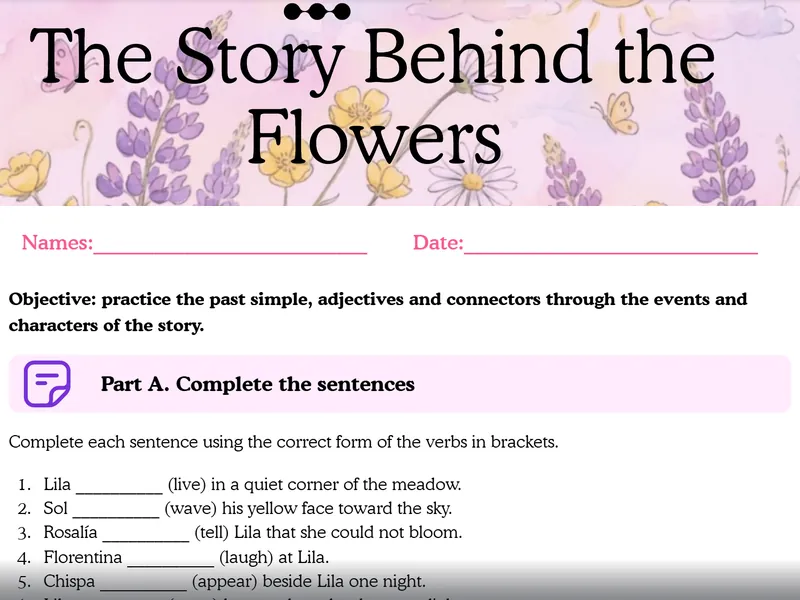
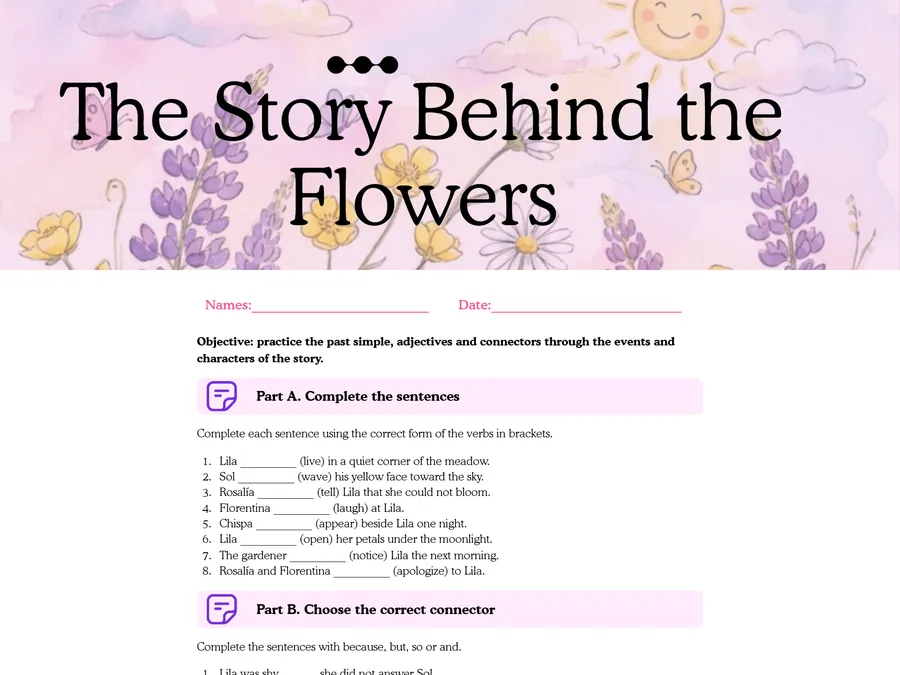
Team photos and bios; Find My Self activities in order; Lila without flashcards; activity images shown whole on their story's backdrop
Claude-Session: https://claude.ai/code/session_01QnjJNBmuxWVtSqwJhh165e

diff --git a/js/data.js b/js/data.js
@@ -2,8 +2,8 @@
    CONTENIDO DE LA PÁGINA — edita aquí los textos, enlaces e imágenes.
    (No hace falta tocar el resto del código.)
    - Las imágenes van en la carpeta img/ y se nombran con su ruta.
-   - "foco" y "zoom" eligen qué parte de la imagen se ve en cada tarjeta
-     de actividad: foco = "x% y%", zoom = "cover" o un tamaño como "220%".
+   - La "imagen" de cada actividad se ve COMPLETA (sin recortes) sobre el
+     fondo de su historia; una captura de la actividad queda muy bien.
    - "tema" son los colores del mundo de cada historia.
    ===================================================================== */
 window.SITE = {
@@ -28,11 +28,17 @@ window.SITE = {
   equipo: {
     titulo: "Meet the Teachers",
     personas: [
-      { nombre: "Teacher Name", rol: "Trainee teacher", foto: "", bio: [
-        "Write a short introduction here: who you are, what you study and why you love teaching.",
-        "Add a second paragraph about why stories matter for learning English."] },
-      { nombre: "Teacher Name", rol: "Trainee teacher", foto: "", bio: ["Write a short introduction here."] },
-      { nombre: "Teacher Name", rol: "Trainee teacher", foto: "", bio: ["Write a short introduction here."] }
+      { nombre: "Laura Monroy", rol: "Spanish and Foreign Languages student · Universidad Santo Tomás", foto: "img/team-laura-monroy.webp", bio: [
+        "My name is Laura Monroy, and I am a student of Spanish and Foreign Languages (English and French) at Universidad Santo Tomás. I am passionate about languages, education, and cultural exchange. I enjoy learning new languages, discovering different cultures, and exploring how communication can bring people together.",
+        "I am particularly interested in teaching, creativity, and designing meaningful educational experiences that help children develop their language skills in an engaging and dynamic way. Through my academic journey and personal experiences, I hope to become a dedicated language teacher who inspires students, encourages their learning, and makes a positive contribution to education and society."] },
+      { nombre: "Laura Camila Pita", rol: "Spanish and Foreign Languages student", foto: "img/team-laura-camila-pita.webp", bio: [
+        "Hello! My name is Laura Camila Pita, and I am a Spanish and Foreign Languages student. I have always been curious about languages and different cultures. I consider myself an open-minded and creative person who enjoys meeting people, discovering new places, and stepping outside my comfort zone. My experiences abroad have strengthened my interest in intercultural communication and taught me to appreciate different perspectives and build connections beyond language.",
+        "These experiences have strengthened my passion for teaching and my belief that learning a language should also open doors to understanding the world. I enjoy exploring creative ways to bring real-life experiences and cultural diversity into the classroom, especially when working with children. I believe that teachers can inspire students to become curious, confident, and open to new perspectives.",
+        "I see storytelling as a meaningful part of this process because stories allow children to explore different worlds, connect with characters, and understand realities beyond their own. They stimulate imagination, encourage empathy, and make language learning more engaging. For me, stories are not just a way to learn a language, but also a way to help children discover the world and their place in it."] },
+      { nombre: "Nicoll Piratova Soler", rol: "Languages student (English and French) · Universidad Santo Tomás", foto: "img/team-nicoll-piratova.webp", bio: [
+        "My name is Nicoll Piratova Soler. I am a Languages student at Universidad Santo Tomás, and I am studying English and French. I have always been curious about languages and different cultures. My interest in languages started because I realized that a language is not only words and grammar. It is a way to understand how other people think, feel, and see the world.",
+        "These experiences have strengthened my passion for teaching and my belief that learning a language should also open doors to understanding the world. I enjoy exploring creative ways to bring real-life experiences and cultural diversity into the classroom, especially when working with children. I believe that teachers can inspire students to become curious, confident, and open to new perspectives.",
+        "I see storytelling as a meaningful part of this process because stories allow children to explore different worlds; they stimulate imagination, encourage empathy, and make language learning more engaging."] }
     ]
   },
   objetivos: {
@@ -71,17 +77,14 @@ window.SITE = {
         { palabra: "Lonely", significado: "Sad because you are alone." }
       ],
       actividades: [
-        { id: "my-little-world-1", habilidad: "reading", titulo: "Match the routines", instrucciones: "Match each picture with the correct daily routine.",
-          link: "https://wordwall.net/es/resource/123880278?wwmethod=link", boton: "Open Wordwall",
-          imagen: "img/cover-find-my-self.webp", foco: "14% 22%", zoom: "260%" },
-        { id: "my-little-world-2", habilidad: "writing", titulo: "Song crossword", instrucciones: "Use the song and the clues to complete the crossword. Check your spelling!",
-          link: "https://canva.link/royje9celaritqi", boton: "Open Canva",
-          imagen: "img/cover-find-my-self.webp", foco: "88% 38%", zoom: "260%" },
-        { id: "my-little-world-3", habilidad: "grammar", titulo: "Grammar quiz", instrucciones: "Choose the correct option to complete each sentence.",
-          link: "", boton: "", imagen: "img/cover-find-my-self.webp", foco: "6% 88%", zoom: "300%" },
-        { id: "my-little-world-4", habilidad: "speaking", titulo: "My favorite song", instrucciones: "Create a slide about your favorite song, then record a short video talking about it.",
-          link: "https://canva.link/md2tc7sr1cxfhfg", boton: "Open Canva",
-          imagen: "img/cover-find-my-self.webp", foco: "48% 62%", zoom: "230%" }
+        { id: "fms-listening", habilidad: "listening", titulo: "Song word search", instrucciones: "Listen to the song Finding Myself, spot the verbs in the past simple and find them in the word search.",
+          link: "https://canva.link/md2tc7sr1cxfhfg", boton: "Open Canva", imagen: "img/act-fms-listening.webp" },
+        { id: "fms-writing", habilidad: "writing", titulo: "Complete the lyrics", instrucciones: "Read each line of the song and drag the missing word into the gap.",
+          link: "https://wordwall.net/es/resource/123880278?wwmethod=link", boton: "Open Wordwall", imagen: "img/act-fms-writing.webp" },
+        { id: "fms-reading", habilidad: "reading", titulo: "Reading and comprehension maze", instrucciones: "Read the clues about the song, make inferences and find your way out of the maze.",
+          link: "https://view.genially.com/6af9f1666050153a5ea3c900", boton: "Open Genially", imagen: "img/act-fms-reading.webp" },
+        { id: "fms-speaking", habilidad: "speaking", titulo: "Jump game", instrucciones: "Jump through the levels of the game and answer each question out loud in English.",
+          link: "https://canva.link/royje9celaritqi", boton: "Open Canva", imagen: "img/act-fms-speaking.webp" }
       ],
       galeria: []
     },
@@ -108,13 +111,13 @@ window.SITE = {
       ],
       actividades: [
         { id: "green-tunja-who", habilidad: "reading", titulo: "Who is who?", instrucciones: "Open the boxes one by one and say who each character from the episode is.",
-          link: "https://wordwall.net/resource/123491145/who-is-who", boton: "Open Wordwall", imagen: "img/act-petals-who.webp", foco: "50% 50%", zoom: "cover" },
+          link: "https://wordwall.net/resource/123491145/who-is-who", boton: "Open Wordwall", imagen: "img/act-petals-who.webp" },
         { id: "green-tunja-order", habilidad: "listening", titulo: "Put the story in order", instrucciones: "Listen to the episode again and choose what happened first, next and last.",
-          link: "https://wordwall.net/resource/123491582/put-the-story-in-order", boton: "Open Wordwall", imagen: "img/cover-behind-the-petals.webp", foco: "18% 52%", zoom: "260%" },
+          link: "https://wordwall.net/resource/123491582/put-the-story-in-order", boton: "Open Wordwall", imagen: "img/act-petals-order.webp" },
         { id: "green-tunja-true-false", habilidad: "listening", titulo: "True or false", instrucciones: "The sentences fly by fast! Decide if each one is true or false before time runs out.",
-          link: "https://wordwall.net/resource/123491787/true-or-false", boton: "Open Wordwall", imagen: "img/cover-behind-the-petals.webp", foco: "82% 50%", zoom: "260%" },
+          link: "https://wordwall.net/resource/123491787/true-or-false", boton: "Open Wordwall", imagen: "img/act-petals-truefalse.webp" },
         { id: "green-tunja-crossword", habilidad: "vocabulary", titulo: "Charlie Charlie crossword", instrucciones: "Read the clues and complete the crossword with words from the episode.",
-          link: "https://share.gridgenius.app/p/behind-the-petals-episode-charlie-charlie-medium-Vxoy2Y", boton: "Open crossword", imagen: "img/act-petals-crossword.webp", foco: "50% 50%", zoom: "cover" }
+          link: "https://share.gridgenius.app/p/behind-the-petals-episode-charlie-charlie-medium-Vxoy2Y", boton: "Open crossword", imagen: "img/act-petals-crossword.webp" }
       ],
       galeria: []
     },
@@ -141,13 +144,13 @@ window.SITE = {
       ],
       actividades: [
         { id: "brave-enough-to-leave-1", habilidad: "reading", titulo: "Escape the House", instrucciones: "Read carefully and complete the reading challenge.",
-          link: "https://lastfiveminutes.github.io/reading/", boton: "Start reading", imagen: "img/tlfm-reading.jpg", foco: "50% 62%", zoom: "cover" },
+          link: "https://lastfiveminutes.github.io/reading/", boton: "Start reading", imagen: "img/tlfm-reading.jpg" },
         { id: "brave-enough-to-leave-2", habilidad: "writing", titulo: "Daniela's Diary", instrucciones: "Complete the writing activity based on the short film.",
-          link: "https://lastfiveminutes.github.io/writing/", boton: "Start writing", imagen: "img/tlfm-writing.jpg", foco: "50% 60%", zoom: "cover" },
+          link: "https://lastfiveminutes.github.io/writing/", boton: "Start writing", imagen: "img/tlfm-writing.jpg" },
         { id: "brave-enough-to-leave-3", habilidad: "listening", titulo: "Detectives on the Call", instrucciones: "Listen carefully and answer the questions.",
-          link: "https://lastfiveminutes.github.io/listening/", boton: "Start listening", imagen: "img/tlfm-listening.jpg", foco: "50% 60%", zoom: "cover" },
+          link: "https://lastfiveminutes.github.io/listening/", boton: "Start listening", imagen: "img/tlfm-listening.jpg" },
         { id: "brave-enough-to-leave-4", habilidad: "speaking", titulo: "Rewind Speaking Show", instrucciones: "It's your turn to speak! Follow the steps and record your answer.",
-          link: "https://lastfiveminutes.github.io/speaking/", boton: "Start speaking", imagen: "img/tlfm-speaking.jpg", foco: "50% 60%", zoom: "cover" }
+          link: "https://lastfiveminutes.github.io/speaking/", boton: "Start speaking", imagen: "img/tlfm-speaking.jpg" }
       ],
       galeria: []
     },
@@ -175,15 +178,13 @@ window.SITE = {
       ],
       actividades: [
         { id: "lila-reading", habilidad: "reading", titulo: "Reading quiz", instrucciones: "Read each question about Lila's story and choose the correct answer. Type your name to start.",
-          link: "https://wayground.com/join?gc=65595347&source=liveDashboard", boton: "Open Wayground", imagen: "img/cover-lila.webp", foco: "20% 72%", zoom: "300%" },
+          link: "https://wayground.com/join?gc=65595347&source=liveDashboard", boton: "Open Wayground", imagen: "img/cover-lila.webp" },
         { id: "lila-listening", habilidad: "listening", titulo: "What happened in the meadow?", instrucciones: "Watch the illustrated video of Lila and complete the listening activities.",
-          link: "https://canva.link/fd7fe9z641rosgv", boton: "Open Canva", imagen: "img/act-lila-listening.webp", foco: "50% 0%", zoom: "cover" },
+          link: "https://canva.link/fd7fe9z641rosgv", boton: "Open Canva", imagen: "img/act-lila-listening.webp" },
         { id: "lila-writing", habilidad: "writing", titulo: "The story behind the flowers", instrucciones: "Practice the past simple, adjectives and connectors with the events and characters of the story.",
-          link: "https://canva.link/qpbhzuqghe436xt", boton: "Open Canva", imagen: "img/act-lila-writing.webp", foco: "50% 0%", zoom: "cover" },
+          link: "https://canva.link/qpbhzuqghe436xt", boton: "Open Canva", imagen: "img/act-lila-writing.webp" },
         { id: "lila-speaking", habilidad: "speaking", titulo: "Speaking challenge", instrucciones: "Play the board game in groups of four: roll, move and answer each question in English.",
-          link: "https://view.genially.com/6af7ea0649f94c0169784faa", boton: "Open Genially", imagen: "img/act-lila-speaking.webp", foco: "50% 50%", zoom: "cover" },
-        { id: "the-whispering-wind-chime-3", habilidad: "vocabulary", titulo: "Magic flashcards", instrucciones: "Read the meanings and flip the cards to discover the secret words.",
-          link: "#vocabulary", boton: "Play here", imagen: "img/cover-lila.webp", foco: "72% 74%", zoom: "300%" }
+          link: "https://view.genially.com/6af7ea0649f94c0169784faa", boton: "Open Genially", imagen: "img/act-lila-speaking.webp" },
       ],
       galeria: []
     }

diff --git a/css/style.css b/css/style.css
@@ -179,7 +179,8 @@ section[id], article[id], [id^="act-"] { scroll-margin-top: calc(var(--nav-h) + 
 .polaroid:hover { transform: rotate(0) translateY(-6px); box-shadow: var(--shadow-lg); }
 .polaroid::before { content: ""; position: absolute; top: -11px; left: 50%; width: 86px; height: 24px; margin-left: -43px; background: rgba(255, 207, 110, .65); transform: rotate(2deg); }
 .ph-frame { aspect-ratio: 4 / 3; border-radius: 3px; overflow: hidden; display: grid; place-items: center; background: linear-gradient(135deg, var(--c1), var(--c2)); }
-.ph-frame img { width: 100%; height: 100%; object-fit: cover; }
+.ph-frame img { width: 100%; height: 100%; object-fit: cover; object-position: 50% 30%; }
+.ph-frame.has-photo { aspect-ratio: 4 / 5; }
 .ph-frame span { font-family: var(--display); font-weight: 800; font-size: 3.4rem; color: rgba(255, 255, 255, .92); text-shadow: 0 4px 20px rgba(0, 0, 0, .15); }
 .polaroid h3 { font-family: var(--hand); font-size: 2rem; font-weight: 700; letter-spacing: 0; }
 .role { color: var(--muted); font-size: .95rem; font-weight: 700; margin-top: -8px; }
@@ -322,12 +323,17 @@ section[id], article[id], [id^="act-"] { scroll-margin-top: calc(var(--nav-h) + 
 .act { flex: 0 0 calc((100% - (var(--cols) - 1) * var(--gap)) / var(--cols)); min-width: 0; position: relative; display: flex; flex-direction: column; border-radius: var(--r); overflow: hidden; background: var(--card); color: var(--ink); box-shadow: 0 16px 40px rgba(0, 0, 0, .22); transition: box-shadow .35s; container-type: inline-size; }
 .chapter.light .act { box-shadow: var(--shadow); }
 .act:hover { box-shadow: 0 26px 60px rgba(0, 0, 0, .3); }
-.act-media { position: relative; flex: none; aspect-ratio: 4 / 3; overflow: hidden; background: #222; }
-@media (max-width: 539px) { .act-media { aspect-ratio: 16 / 10; } }
-.acts[data-n="5"] .act-media, .acts[data-n="6"] .act-media, .acts[data-n="3"] .act-media { aspect-ratio: 16 / 10; }
-.act-media .im { position: absolute; inset: 0; background-repeat: no-repeat; transition: transform .9s var(--ease); }
-.act:hover .act-media .im { transform: scale(1.07); }
-.act-media::after { content: ""; position: absolute; inset: 0; background: linear-gradient(180deg, transparent 50%, rgba(0, 0, 0, .45)); }
+.act-media { position: relative; flex: none; aspect-ratio: 5 / 4; overflow: hidden; background: #222; }
+/* the activity image is shown whole, floating on its story's own backdrop and colours */
+.act-media .im { position: absolute; inset: -8%; background-size: cover; background-position: center; transition: transform 1.2s var(--ease); }
+.act-media .im.raw { filter: blur(24px) saturate(1.2); }
+.act-media .im::after { content: ""; position: absolute; inset: 0; background: linear-gradient(150deg, color-mix(in srgb, var(--bg) 45%, transparent), color-mix(in srgb, var(--bg2) 70%, transparent)), radial-gradient(circle at 50% 45%, color-mix(in srgb, var(--accent) 22%, transparent), transparent 70%); }
+.act:hover .act-media .im { transform: scale(1.06); }
+.pic { position: absolute; inset: 16px 16px 18px; display: flex; align-items: center; justify-content: center; }
+.pic img { max-width: 100%; max-height: 100%; width: auto; height: auto; border-radius: 10px; box-shadow: 0 0 0 3px rgba(255, 255, 255, .85), 0 14px 30px rgba(0, 0, 0, .35); transform: rotate(var(--tilt, -1.2deg)); transition: transform .6s var(--ease); }
+.act:nth-child(even) .pic img { --tilt: 1.2deg; }
+.act:hover .pic img { transform: rotate(0) scale(1.04); }
+.act-media::after { content: ""; position: absolute; inset: 0; pointer-events: none; background: linear-gradient(180deg, transparent 70%, rgba(0, 0, 0, .3)); }
 .act-media .pill { position: absolute; left: 12px; top: 12px; z-index: 1; box-shadow: 0 6px 16px rgba(0, 0, 0, .25); }
 .act-num { position: absolute; right: 12px; bottom: 6px; z-index: 1; font-family: var(--display); font-weight: 900; font-size: 2.6rem; color: #fff; line-height: 1; text-shadow: 0 4px 16px rgba(0, 0, 0, .4); }
 .stamp { position: absolute; z-index: 2; right: 14px; top: 12px; width: 78px; height: 78px; border-radius: 50%; display: grid; place-items: center; text-align: center; font-family: var(--display); font-weight: 900; font-size: .78rem; letter-spacing: .08em; line-height: 1.05; color: #fff; background: var(--done); border: 3px dashed rgba(255, 255, 255, .7); box-shadow: 0 0 0 4px var(--done), 0 10px 24px rgba(0, 0, 0, .3); transform: rotate(-14deg); opacity: 0; scale: .4; transition: opacity .3s, scale .45s cubic-bezier(.3, 1.6, .4, 1); pointer-events: none; }

diff --git a/js/app.js b/js/app.js
@@ -63,7 +63,7 @@
     [/docs\.google/, "Google Docs"], [/vimeo/, "Vimeo"], [/canva/, "Canva"], [/wordwall/, "Wordwall"], [/genial\.?ly/, "Genially"],
     [/learningapps/, "LearningApps"], [/educaplay/, "Educaplay"], [/liveworksheets/, "Liveworksheets"], [/padlet/, "Padlet"],
     [/vocaroo/, "Vocaroo"], [/spotify/, "Spotify"], [/edpuzzle/, "Edpuzzle"], [/wayground/, "Wayground"], [/quizizz/, "Quizizz"], [/gridgenius/, "Grid Genius"], [/kahoot/, "Kahoot!"],
-    [/h5p/, "H5P"], [/soundcloud/, "SoundCloud"], [/flip\.com/, "Flip"], [/lastfiveminutes\.github\.io/, "The Last Five Minutes game"]];
+    [/h5p/, "H5P"], [/soundcloud/, "SoundCloud"], [/flip\.com/, "Flip"], [/lastfiveminutes\.github\.io/, "Web game"]];
   function platform(u) {
     if (u.charAt(0) === "#") return "On this page";
     var x;
@@ -96,7 +96,7 @@
   function bgCrop(a) {
     var src = a.imagen || "";
     if (!src) return "background:var(--s)";
-    return "background-image:url('" + esc(src) + "');background-position:" + esc(a.foco || "50% 50%") + ";background-size:" + esc(a.zoom || "cover");
+    return "background-image:url('" + esc(src) + "');background-position:" + esc(a.foco || "50% 25%") + ";background-size:" + esc(a.zoom || "cover");
   }
 
   /* ================= data shape ================= */
@@ -180,8 +180,8 @@
       esc(t.titulo || "Meet the Teachers") + '</h2></div><div class="team">' +
       people.map(function (p, i) {
         var bio = arr(p.bio), c = TEAM_COLORS[i % TEAM_COLORS.length], foto = String(p.foto || "");
-        return '<article class="polaroid" data-pop><div class="ph-frame" style="--c1:' + c[0] + ";--c2:" + c[1] + '">' +
-          (foto ? '<img src="' + esc(foto) + '" alt="' + esc(p.nombre) + '">' : "<span>" + esc(initials(p.nombre)) + "</span>") + "</div>" +
+        return '<article class="polaroid" data-pop><div class="ph-frame' + (foto ? " has-photo" : "") + '" style="--c1:' + c[0] + ";--c2:" + c[1] + '">' +
+          (foto ? '<img src="' + esc(foto) + '" alt="' + esc(p.nombre) + '" loading="lazy" decoding="async">' : "<span>" + esc(initials(p.nombre)) + "</span>") + "</div>" +
           "<h3>" + esc(p.nombre) + "</h3>" + (p.rol ? '<p class="role">' + esc(p.rol) + "</p>" : "") +
           (bio[0] ? '<p class="bio">' + esc(bio[0]) + "</p>" : "") +
           (bio.length > 1 ? '<details class="more"><summary>Read more</summary>' + bio.slice(1).map(function (x) { return '<p class="bio">' + esc(x) + "</p>"; }).join("") + "</details>" : "") +
@@ -290,7 +290,8 @@
   function activity(h, a, j) {
     var sk = skillOf(a.habilidad), url = cleanUrl(a.link), internal = url.charAt(0) === "#";
     return '<div class="act s-' + sk.cls + (done[a.id] ? " is-done" : "") + '" id="act-' + esc(a.id) + '" data-act="' + esc(a.id) + '">' +
-      '<div class="act-media"><div class="im" style="' + bgCrop(a) + '"></div><span class="pill">' + icon(sk.cls) + esc(sk.label) + '</span><span class="act-num">' + pad(j + 1) + "</span>" +
+      '<div class="act-media"><div class="im' + (h.fondo ? "" : " raw") + '" style="background-image:url(\'' + esc(h.fondo || h.portada) + '\')"></div>' +
+      (a.imagen ? '<span class="pic"><img src="' + esc(a.imagen) + '" alt="" loading="lazy" decoding="async"></span>' : "") + '<span class="pill">' + icon(sk.cls) + esc(sk.label) + '</span><span class="act-num">' + pad(j + 1) + "</span>" +
       (url ? '<span class="host">' + (internal ? "↓ " : "") + esc(platform(url)) + "</span>" : "") +
       '<span class="stamp" aria-hidden="true"><span><b>✓</b>DONE</span></span></div>' +
       '<div class="act-body">' + (a.titulo ? "<h4>" + esc(a.titulo) + "</h4>" : "") + (a.instrucciones ? "<p>" + esc(a.instrucciones) + "</p>" : "") +
